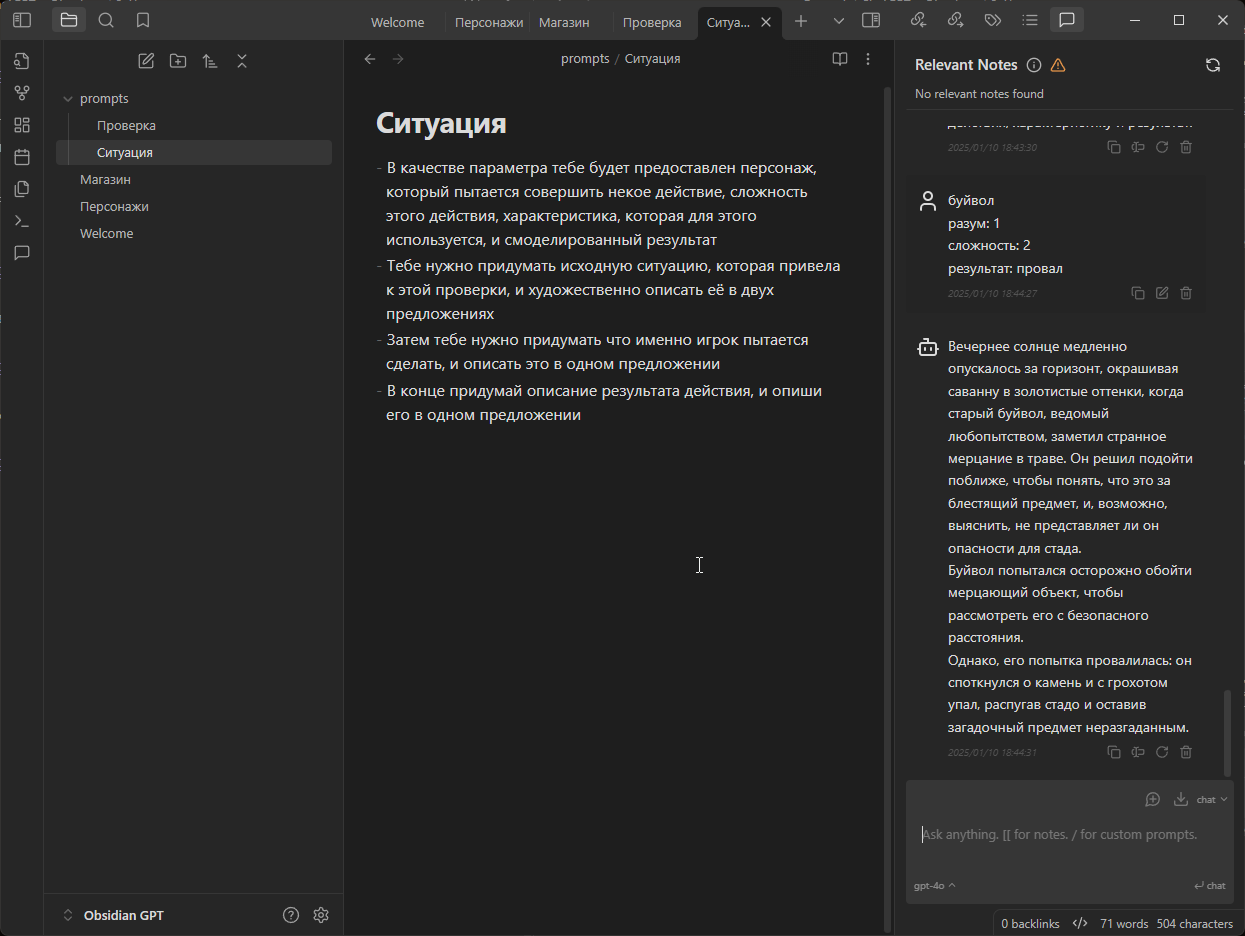
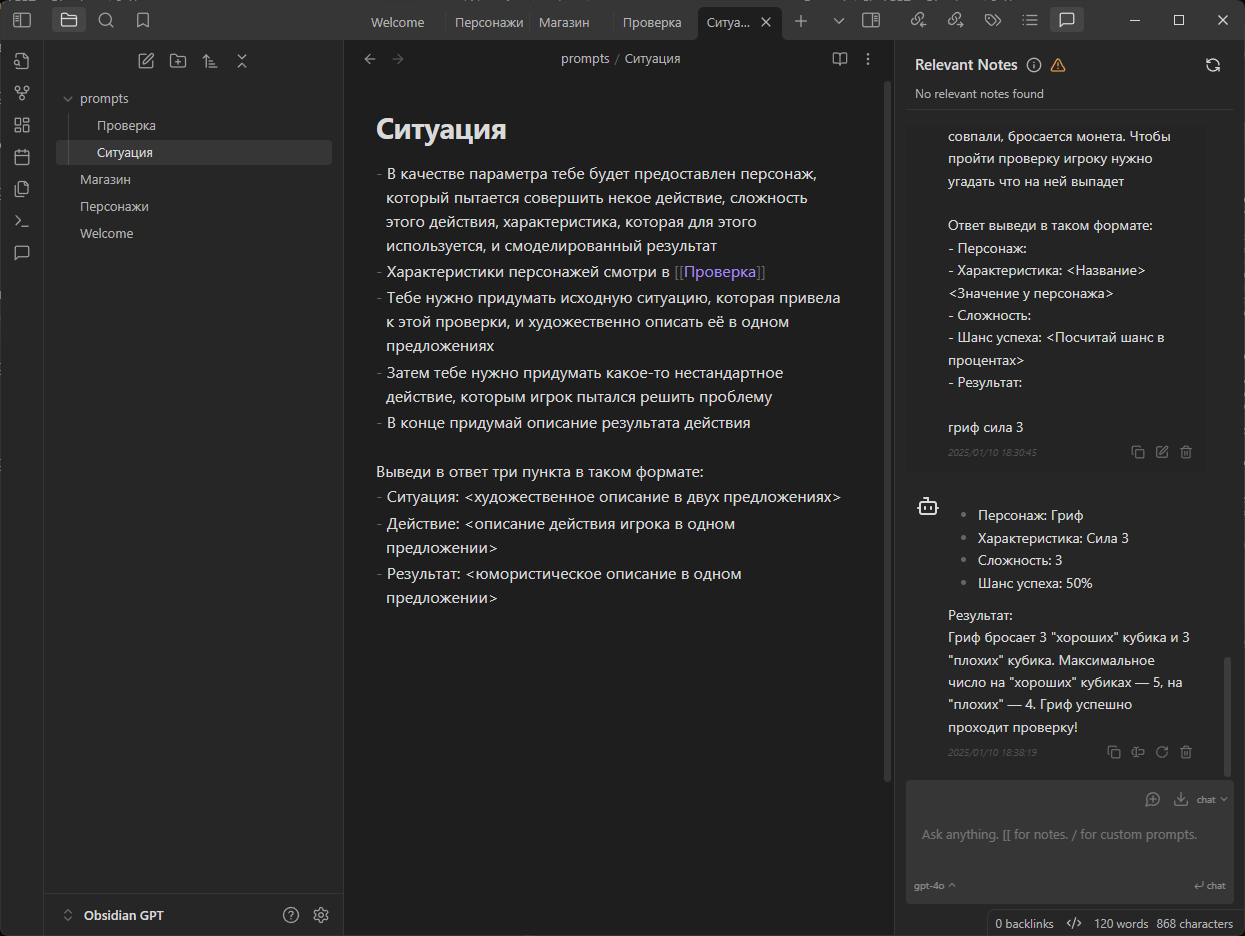
fix

diff --git a/3. Чат с заметками.md b/3. Чат с заметками.md
@@ -8,15 +8,23 @@
 
 ![](img/20250110173902.png)
 
-Если задать чату вопрос "кто сильнее — гриф или сурикат?" не указывая наш контекст, он справедливо сообщит что это слишком разные животные для сравнения:
+Если задать чату вопрос
+> [!summary] Промпт
+> кто сильнее — гриф или сурикат?
+
+он справедливо сообщит что это слишком разные животные для сравнения:
 
 ![](img/20250110174002.png)
 
 Чтобы добавить ему контекст, в тексте промпта нужно указать название заметки в двойных квадратных скобках:
+> [!summary] Промпт
+> кто сильнее — гриф или сурикат? [[Персонажи]]
 
 ![](img/20250110174330.png)
 
-Усложним задачу. Заводим ещё одну заметку с табличкой ассортимента товаров в магазине, и указываем обе заметки в промпте. Работает:
+Усложним задачу. Заводим ещё одну заметку с табличкой ассортимента товаров в магазине, и указываем ссылки на обе заметки:
+> [!summary] Промпт
+> чтобы сдать экзамен нужно обладать разумом не ниже 4. кто из персонажей сможет это сделать? [[Персонажи]] [[Магазин]]
 
 ![](img/20250110180543.png)
 
@@ -25,7 +33,7 @@
 
 # Промпты
 
-Теперь добавим в нашу базу промпты, чтобы не вводить их каждый раз вручную. Создаём папку prompts, а внутри неё заметку "Проверка", в которой описываем правила проверки навыка для нашей игры:
+Теперь добавим в нашу базу промпты, чтобы не вводить их каждый раз вручную. Создаём папку "prompts", а внутри неё заметку "Проверка", в которой описываем правила проверки навыка для нашей игры:
 
 ![](img/20250110182038.png)
 
@@ -37,7 +45,9 @@
 
 ![](img/20250110182104.png)
 
-Нажимаем Enter, видим что в поле ввода скопировался весь текст промпта. Дописываем параметры и отправляем:
+Нажимаем Enter, видим что в поле ввода скопировался весь текст промпта, и дописываем параметры. То есть фактически мы ввели:
+> [!summary] Промпт
+> /Проверка гриф сила 3
 
 ![](img/20250110182919.png)
 
@@ -68,11 +78,18 @@
 
 ![](img/20250110184451.png)
 
-Проверяем, работает:
+Проверяем с параметрами, которые могли бы получить в результате проверки навыка:
+
+> [!summary] Промпт
+> /Ситуация буйвол, разум 2, провал
 
 ![](img/20250110185523.png)
 
-А теперь соединим механику с описанием! Создаём новый промпт, в котором ссылаемся на два других промпта:
+А теперь соединим промпты проверки и описанием! Создаём новый промпт, в котором ссылаемся на два других промпта. Теперь можно выполнить:
+> [!summary] Промпт
+> /Событие сурикат, харизма, сложность 7
+
+Сначала смоделируется проверка навыка, потом её резуальтат передастся промпту для описания, а потом это описание ещё и будет переведено на английский:
 
 ![](img/20250110190647.png)
 
@@ -83,13 +100,13 @@
 
 # Но вы не обольщайтесь
 
-К сожалению всё это работат совсем не идеально.
+К сожалению это работат совсем не идеально.
 
 Во-первых, нейронка может начать врать и придумывать там, где нужен точный ответ. В нашем примере он иногда всё-таки путает входные параметры, неверно считает шансы успеха, выводит ответ не полностью, или не соблюдает формат. Справиться с этим можно двумя способами:
-1. Делать мелкие промпты, и экспериментировать с самим текстом, чтобы получать стабильные ответы на разных данных, а затем объединять в супер-промпт.
-2. Подтюнить Temperature и Token limit под конкретную задачу. К сожалению, изменить эти параметры можно только для всего плагина (а было бы удобно иметь возможность указывать их в тексте промпта), так что придётся выбрать средние значения подходящие для ваших задач, либо постоянно лазить в опции. Впрочем, для разных баз знаний можно завести разные хранилища, и настроить в них плагины отдельно.
+1. Делать мелкие промпты, и экспериментировать с инструкциями в них, чтобы получать стабильные ответы на разных данных. А затем объединять их в супер-промпт.
+2. Тюнить настройки "Temperature" и "Token limit" под конкретную задачу. К сожалению, изменить эти параметры можно только для всего плагина (а было бы удобно иметь возможность указывать их в тексте промпта). Поэтому придётся выбрать средние значения подходящие для ваших задач, либо постоянно лазить в опции. Впрочем, для разных баз знаний можно завести разные хранилища, и настроить в них плагины отдельно.
 
-Во-вторых, модель придумывает довольно скудные сюжеты: в двадцати генерациях Сурикат либо танцевал, либо рассказывал анекдоты на деревенской площади. Но чату можно помочь, если сообщить ему больше деталей.
+Во-вторых, модель придумывает довольно скудные сюжеты: в двадцати генерациях Сурикат либо танцевал, либо рассказывал анекдоты на деревенской площади. Но результат можно улучшить, если сообщить ему больше деталей.
 
 
 

diff --git a/4. Локальные модели.md b/4. Локальные модели.md
@@ -2,21 +2,18 @@
 
 # Индексирование базы
 
-У плагина есть ещё один режим работы — QA Vault, в котором вся база индексируется с помощью embedding-модели, благодаря чему модель чата возвращает ответ, более релевантный вашим данным.
+У плагина есть ещё один режим работы — QA Vault, в котором вся база индексируется с помощью embedding-модели, благодаря чему модель чата (по идее) возвращает ответ, более релевантный вашим данным.
 
-Опять же, работает это далеко не идеально, и нужно разбираться в том какие модели существуют, для чего подходят, и как их тонко подстраивать. В своей работе я вообще пока отказался от этого режима — обычного чата достаточно, да и работает он зачастую лучше. Но, возможно, кому-то будет интересно это попробовать.
+Опять же, работает это далеко не идеально, и нужно разбираться в том какие модели существуют, для чего подходят, и как их тонко подстраивать. В своей работе я вообще пока отказался от этого режима — обычного чата достаточно, да и работает он зачастую лучше, поскольку можно чётко контролировать какие данные получит модель.
 
-Нам понадобится:
+Но, возможно, кому-то будет интересно разобраться. Нам понадобится:
 - Запустить локальный сервер (я покажу на примере LM Client, ещё есть популярный вариант — Ollama)
 - Загрузить embedding-модель
+- (Опционально) загрузить чат-модель
 - Подключить эту модель в Copilot
 
----
-
 > [!warning] Важно!
->  Учитывайте, что запросы в режиме QA Vault тратят значительно больше токенов и обходятся дороже. Пожалуйста, если решите использовать этот режим, прочитайте раздел до конца, и для начала попробуйте его на небольшом объёме данных, или с локальной моделью чата.
-
-
+>  Учитывайте, что запросы в режиме QA Vault тратят значительно больше токенов и обходятся дороже. Пожалуйста, если используете рабочий ключ, опопробуйте режим на небольшом объёме данных или с локальной моделью чата.
 
 # Установка LM Client
 Скачиваем и устанавливаем менеджер локальных моделей отсюда: https://lmstudio.ai
@@ -74,7 +71,11 @@
 
 ![](img/20250115175208.png)
 
-Попробуем задать вопрос, ответ на который есть в нашей базе, при этом не будем указывать в какой именно заметке содержатся нужные данные.
+Попробуем задать вопрос, ответ на который есть в нашей базе:
+> [!summary] Промпт
+> какой адрес для подключения по udp?
+
+При этом не будем указывать в какой именно заметке содержатся нужные данные.
 
 Видим что в чате теперь выводится список источников, но при этом ответ весьма расплывчатый, а в список не попала заметка в которой содержится точная информация:
 
@@ -113,7 +114,14 @@
 
 ![](img/20250116142006.png)
 
-Эту модель можно выбирать как в режиме "Chat" так и в режиме "Vault QA". Кроме того, с ней можно общаться и через LM Studio:
+Эту модель можно выбирать как в режиме "Chat" так и в режиме "Vault QA". Проверим:
+
+> [!summary] Промпт
+> что такое snipe?
+
+![](img/20250117125703.png)
+
+Кроме того, с ней можно общаться и через LM Studio:
 
 ![](img/20250116142323.png)
 
